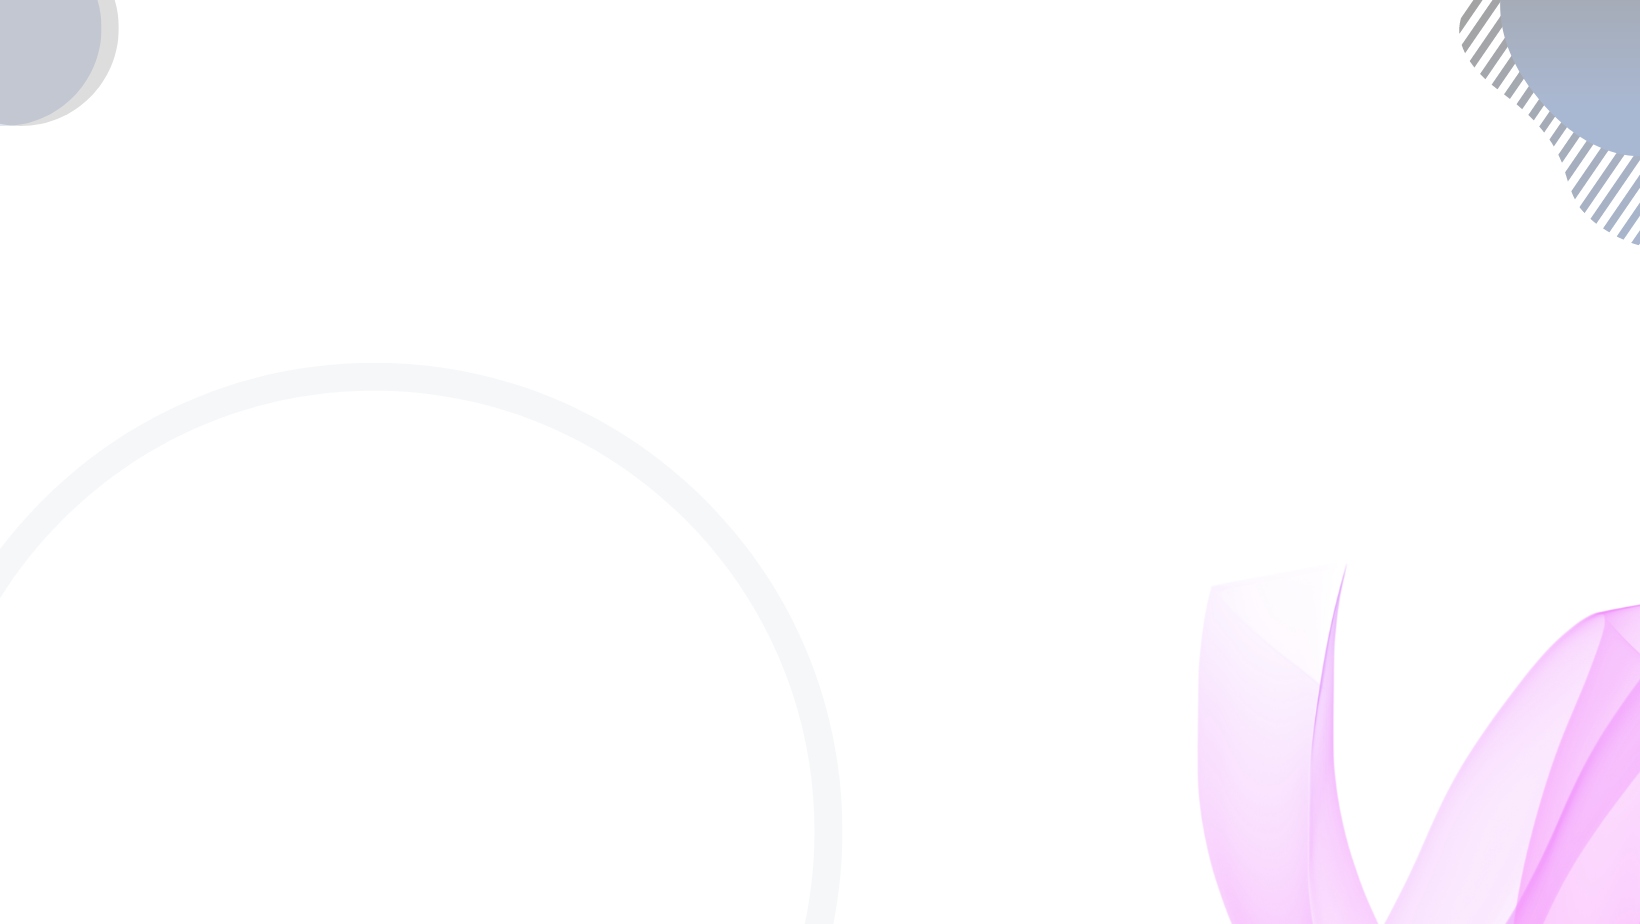
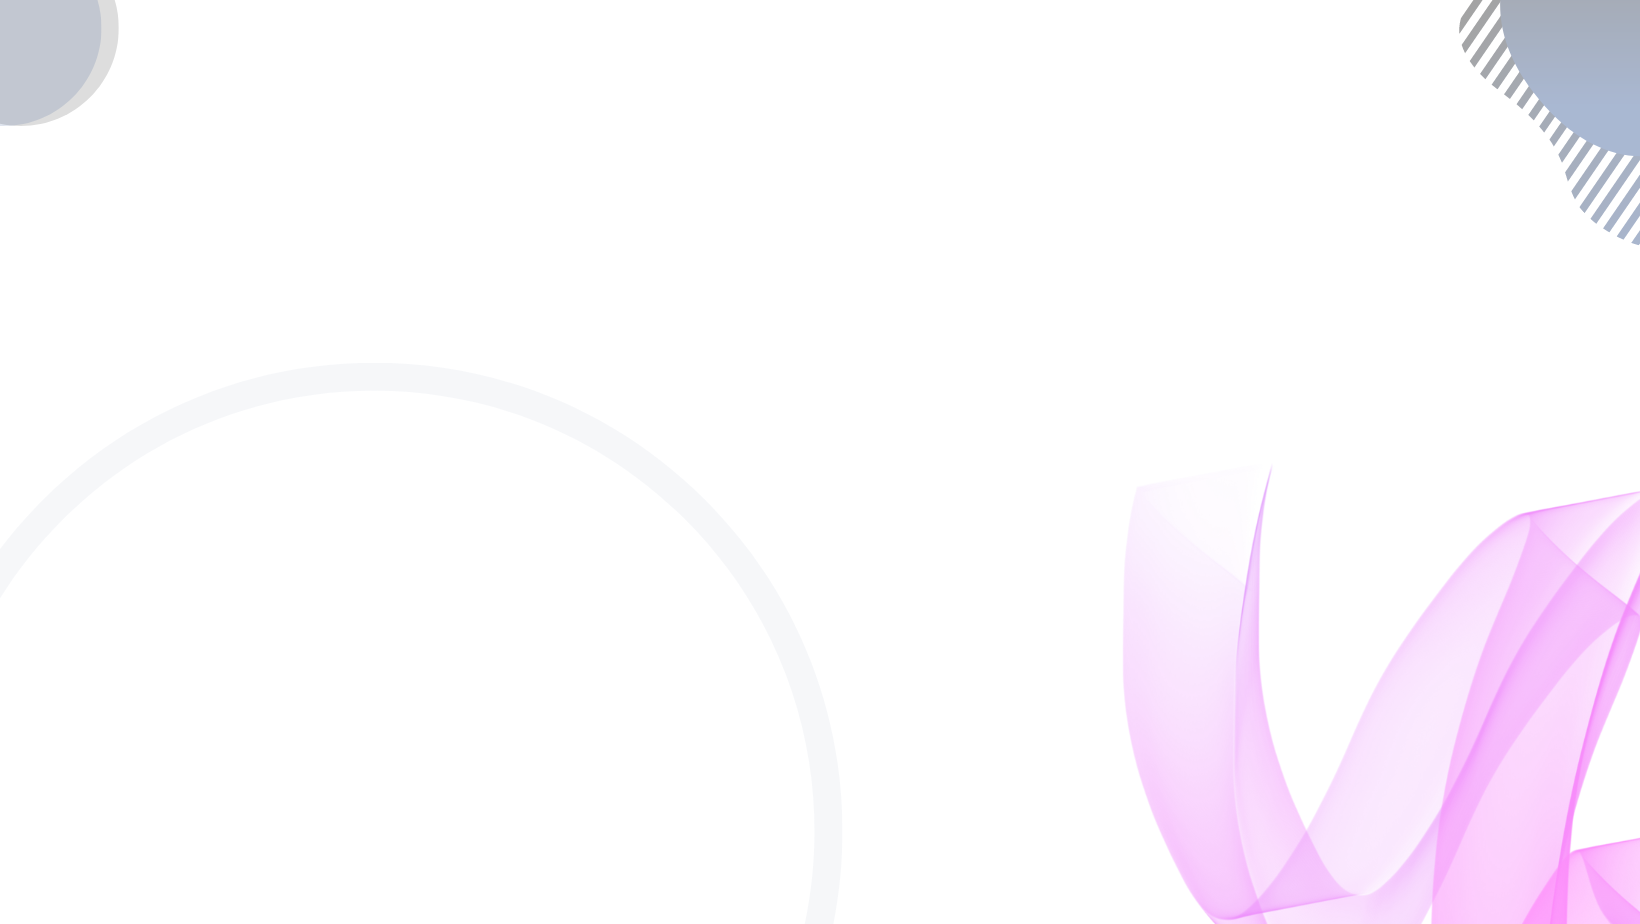
ok

Changed region(s): [[0.6841, 0.5152, 1.0, 1.0]]

diff --git a/index.html b/index.html
@@ -44,5 +44,33 @@
         <img src="images/bg.png" alt="" />
       </div>
     </section>
+
+    <section class="dream-big">
+      <div class="half">
+        <img src="images/pic 2.png" alt="" />
+      </div>
+      <div class="half">
+        <h1>DREAM</h1>
+        <h2>become a web developer</h2>
+        <p>
+          Lorem ipsum dolor sit amet consectetur adipisicing elit. Nisi eius
+          maiores dicta quos. Placeat, voluptatum veritatis, ullam nulla, beatae
+          alias quae quidem pariatur porro sapiente consequuntur tempora minus
+          velit laboriosam! Lorem ipsum dolor sit amet consectetur adipisicing
+          elit. Nisi eius maiores dicta quos. Placeat, voluptatum veritatis,
+          ullam nulla, beatae alias quae quidem pariatur porro sapiente
+          consequuntur tempora minus velit laboriosam! Lorem ipsum dolor sit
+          amet consectetur adipisicing elit. Nisi eius maiores dicta quos.
+          Placeat, voluptatum veritatis, ullam nulla, beatae alias quae quidem
+          pariatur porro sapiente consequuntur tempora minus velit laboriosam!
+        </p>
+        <a
+          class="link-button"
+          target="_blank"
+          href="https://www.ahmedjubayer.com/"
+          >download resume</a
+        >
+      </div>
+    </section>
   </body>
 </html>

diff --git a/style.css b/style.css
@@ -12,6 +12,7 @@ h1{
 }
 section{
     display: flex;
+    margin-bottom: 100px;
 }
 .half{
     width: 60%;
@@ -33,6 +34,9 @@ section{
 }
 .top-banner{
 
-    background-image: url("images/design.png");
+    background-image: url("images/cover.png");
     background-repeat: no-repeat;
+}
+.dream-big{
+    background-image: url(images/cover2.png);
 }
